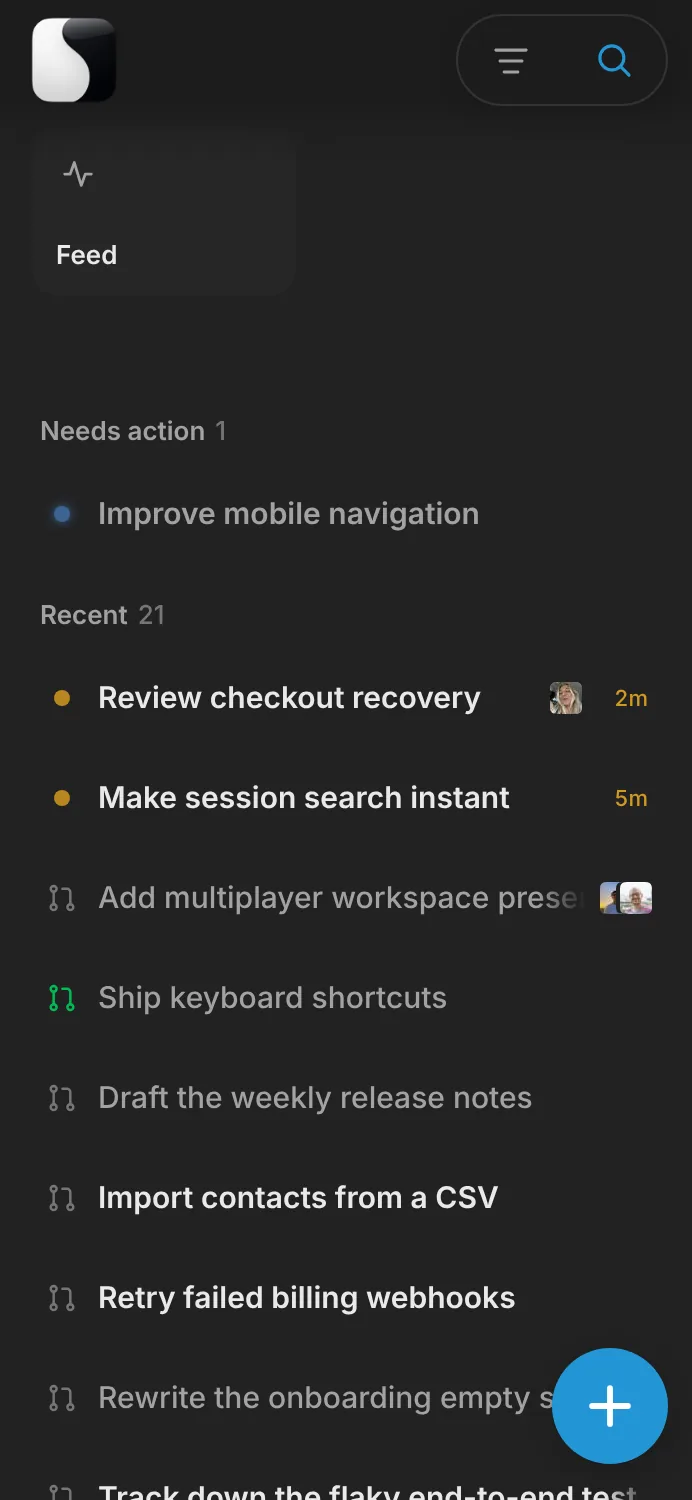
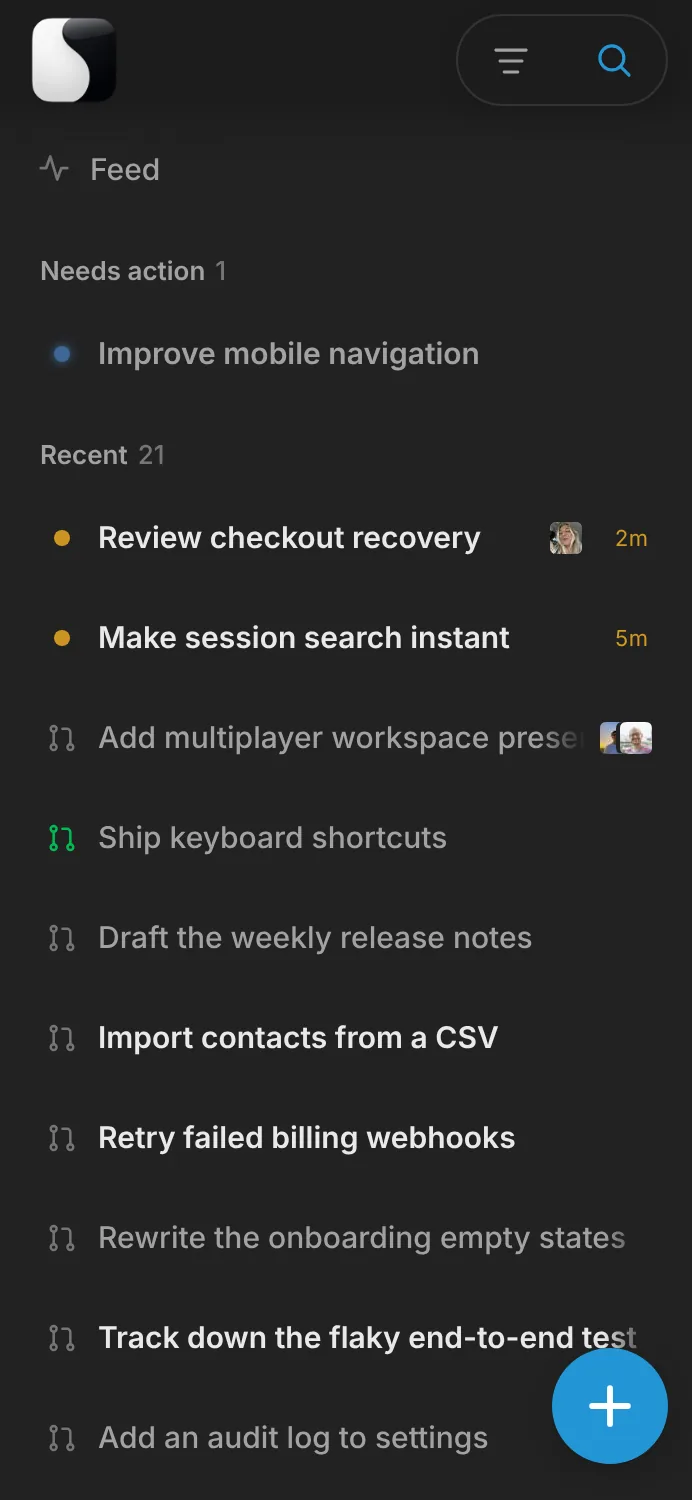
Show the phone's sidebar tools as a list
The tools were a horizontally-scrolling line of tap cards at phone width and
a vertical list everywhere else. That made the one part of the sidebar that
is a column of rows speak a different language on phones, and it kept its own
tail off the right edge, so you had to scroll sideways to find out which tools
you had. They are the same list at both widths now.

Only the box differs: `--sidebar-tool-pad` is 5px for desktop's 32px reading
row, and phones override it to the 13px the session rows already take
(SIDEBAR_ROW) for a 48px tap target. Measured at 390px: four rows stacked on
the 16px glyph rail, 48px each, no horizontal overflow. Desktop is unchanged.

The landing page's phone poster is a capture of this same sidebar, so it is
re-shot here. The desktop poster is untouched.

diff --git a/packages/core/opensession-server/src/frontend/components/Sidebar.tsx b/packages/core/opensession-server/src/frontend/components/Sidebar.tsx
@@ -4314,13 +4314,13 @@ export const Sidebar = React.forwardRef<SidebarHandle, Props>(function Sidebar({
 				"flex w-full min-h-0 flex-1 flex-col overflow-x-hidden overflow-y-auto [scrollbar-width:none] [&::-webkit-scrollbar]:hidden",
 				SIDEBAR_DENSITY_VARS,
 				SIDEBAR_NAV_X,
-				// The whole sidebar scrolls as one on phones, so the tool cards (and
-				// the Workspaces header) scroll away with the list instead of staying
+				// The whole sidebar scrolls as one on phones, so the tools (and the
+				// Workspaces header) scroll away with the list instead of staying
 				// pinned above a separately-scrolling list. The top bar floats over
-				// it (.app-header-overlay), so pad the scroll's top by the bar height
-				// — the cards clear the pills at rest and the list scrolls under
-				// them — fade the list into the bar with a mask, and keep the last
-				// section clear of the home indicator.
+				// it (.app-header-overlay), so pad the scroll's top by the bar height.
+				// The tools clear the pills at rest and the list scrolls under them.
+				// Fade the list into the bar with a mask, and keep the last section
+				// clear of the home indicator.
 				isPhone &&
 					"pt-[var(--header-h)] pb-[max(24px,env(safe-area-inset-bottom,0px))] [-webkit-mask-image:linear-gradient(to_bottom,transparent_0,#000_var(--header-h))] [mask-image:linear-gradient(to_bottom,transparent_0,#000_var(--header-h))]",
 			)}
@@ -4362,73 +4362,53 @@ export const Sidebar = React.forwardRef<SidebarHandle, Props>(function Sidebar({
 						// `--sidebar-nav-x` is the sidebar's own (SIDEBAR_NAV_X); the strip
 						// reads it rather than setting one, so the tools sit on the same
 						// edges as the lists under them.
-						"flex",
-						isPhone
-							? // One horizontally-scrollable line of tap cards (Slack-home
-								// style) rather than a wrapping grid, so all the tools sit on
-								// a single row and the rest peek in from the right edge to
-								// signal the scroll. flex-none so the sidebar's column layout
-								// can't shrink this container down to its padding and clip
-								// the cards; the left edge lines up with the Workspaces
-								// header and the list at 16px. No
-								// `-webkit-overflow-scrolling: touch`: on iOS it promotes the
-								// strip to its own composited layer, which then paints ABOVE
-								// the sidebar's vertical overlay scrollbar — the scrollbar
-								// vanishes "under" the cards as it passes over them. Momentum
-								// scroll is on by default on modern iOS anyway.
-								"flex-none flex-row flex-nowrap gap-2 overflow-x-auto overflow-y-hidden pt-5 pr-3 pb-3 pl-4 [overscroll-behavior-x:contain] [scrollbar-width:none] [&::-webkit-scrollbar]:hidden"
-							: // The tools are the first thing in the rail now that their
-								// heading is gone, so the top pad is theirs rather than a
-								// correction against a heading's box: it sets the tools off
-								// from the window chrome above them the way the caption used
-								// to. Bottom pad stays the gap to the Workspaces heading.
-								"flex-col gap-0.5 px-[var(--sidebar-nav-x)] pt-2 pb-1.5",
+						//
+						// One vertical list at every width. Phones used to get a
+						// horizontally-scrolling line of Slack-home style tap cards, which
+						// put the tools in a different language from everything under
+						// them: the sidebar is a column of rows, and the cards were a
+						// sideways shelf that kept its own tail off the right edge. A list
+						// reads the same on both clients, shows every tool at once without
+						// a gesture, and takes a quarter of the height per tool.
+						//
+						// The tools are the first thing in the rail now that their heading
+						// is gone, so the top pad is theirs rather than a correction
+						// against a heading's box: it sets the tools off from the chrome
+						// above them the way the caption used to. Bottom pad is the gap to
+						// the Workspaces heading.
+						"flex flex-col gap-0.5 px-[var(--sidebar-nav-x)] pt-2 pb-1.5",
 					)}
 				>
 					{visibleTools.map((tool) => {
 						const rowClass = cn(
-							// Two complete looks, not one look with tweaks — so each
-							// viewport carries its whole set and neither has to out-rank
-							// the other. Phones get a Slack-home style 132px tap card;
-							// desktop gets a compact full-width row.
-							"group flex text-left transition-colors",
-							isPhone &&
-								"relative w-[132px] min-h-[84px] flex-[0_0_auto] flex-col items-start justify-between gap-2.5 rounded-xl bg-panel p-3 text-label leading-[1.25] font-semibold text-fg",
-							// The card owns a real surface (--bg-panel), so its states
-							// ride ON that as layers rather than replacing it — the same
-							// translucent ink the rows use, just stacked over a fill
-							// instead of over the sidebar.
-							isPhone && !tool.active && SIDEBAR_HOVER_LAYER,
-							isPhone &&
-								tool.active &&
-								"border-line-strong bg-[image:linear-gradient(var(--hover-strong),var(--hover-strong))]",
-							!isPhone && "items-center",
-							!isPhone &&
-								// Compact rows use control-label type, with glyphs matching
-								// the sidebar's standard 22px leading rail.
-								// `--sidebar-tool-pad` is 5px for a 32px box: the tools are a
-								// short utility strip above the work lists, and at the session
-								// rows' 36px the four of them took more of the rail than what
-								// they lead to. The glyph and the label's left rail are
-								// untouched, so they still line up with the rows below; only
-								// the air around them is tighter.
-								// Don't take it below 30. At 28 (`py-[3px]`, the pre-ffd11ffc
-								// value) the 22px glyph has 3px of margin and the hover pill
-								// stops reading as a row; the compact density's 4px stops at
-								// 30, level with the rows under it rather than below them.
-								`w-full ${SIDEBAR_RAIL_GAP} rounded-row bg-transparent px-[calc(var(--sidebar-icon-left)-var(--sidebar-nav-x))] py-[var(--sidebar-tool-pad)] text-body font-medium text-dim desktop:text-item-title hover:text-fg`,
-							!isPhone && SIDEBAR_HOVER_LAYER,
-							!isPhone && tool.active && "bg-selected text-fg",
+							// One look at both widths. Only the box changes, and only
+							// because a phone row is pressed rather than read.
+							"group flex items-center text-left transition-colors",
+							// Rows use control-label type, with glyphs matching the
+							// sidebar's standard 22px leading rail.
+							// `--sidebar-tool-pad` is 5px for a 32px box: the tools are a
+							// short utility strip above the work lists, and at the session
+							// rows' 36px the four of them took more of the rail than what
+							// they lead to. The glyph and the label's left rail are
+							// untouched, so they still line up with the rows below; only
+							// the air around them is tighter.
+							// Don't take it below 30. At 28 (`py-[3px]`, the pre-ffd11ffc
+							// value) the 22px glyph has 3px of margin and the hover pill
+							// stops reading as a row; the compact density's 4px stops at
+							// 30, level with the rows under it rather than below them.
+							// Phones override it to the 13px the session rows take
+							// (SIDEBAR_ROW, lib/sidebar-classes.ts) for a 48px box: 32px is
+							// a reading height, not a tap target.
+							`w-full ${SIDEBAR_RAIL_GAP} rounded-row bg-transparent px-[calc(var(--sidebar-icon-left)-var(--sidebar-nav-x))] py-[var(--sidebar-tool-pad)] phone:py-[13px] text-body font-medium text-dim desktop:text-item-title hover:text-fg`,
+							SIDEBAR_HOVER_LAYER,
+							tool.active && "bg-selected text-fg",
 						);
 						const rowBody = (
 							<>
 								<span
 									className={cn(
-										"inline-flex [&_svg]:size-[22px]",
-										isPhone && (tool.active ? "text-fg" : "text-dim"),
-										!isPhone && "text-faint",
-										!isPhone && tool.active && "text-dim",
-										!isPhone && !tool.active && "group-hover:text-dim",
+										"inline-flex text-faint [&_svg]:size-[22px]",
+										tool.active ? "text-dim" : "group-hover:text-dim",
 									)}
 								>
 									{tool.icon}
@@ -4437,17 +4417,8 @@ export const Sidebar = React.forwardRef<SidebarHandle, Props>(function Sidebar({
 								{!!tool.count && (
 									// `rounded-full`, not `rounded-[999px]`: this pill never
 									// carried a corner-shape, and rounded-full is the one
-									// radius spelling base.css does NOT squircle. On phones
-									// the count sits as a corner badge on the card rather
-									// than inline.
-									<span
-										className={cn(
-											"rounded-full bg-accent px-[7px] py-px text-meta leading-[1.5] font-semibold text-on-accent",
-											isPhone
-												? "absolute top-2.5 right-2.5 ml-0"
-												: "ml-auto",
-										)}
-									>
+									// radius spelling base.css does NOT squircle.
+									<span className="ml-auto rounded-full bg-accent px-[7px] py-px text-meta leading-[1.5] font-semibold text-on-accent">
 										{tool.count}
 									</span>
 								)}
@@ -4524,8 +4495,10 @@ export const Sidebar = React.forwardRef<SidebarHandle, Props>(function Sidebar({
 						// leaving the row you're on. The pile opens the same lens menu
 						// the Feed page's own chips write, so the row is both a way in
 						// and the shortcut past it. It has to be a sibling of the row,
-						// not a child: a button can't nest one. Phones render the tools
-						// as a card strip, where there's no room.
+						// not a child: a button can't nest one. Desktop only, even now
+						// that phones render the tools as rows with room for it: a pile
+						// laid over the row's right edge competes with the row's own tap
+						// where there is no hover to distinguish them.
 						if (tool.id !== "feed" || isPhone || team.length === 0) return row;
 						return (
 							<div key={tool.id} className="group/team-lens relative">
